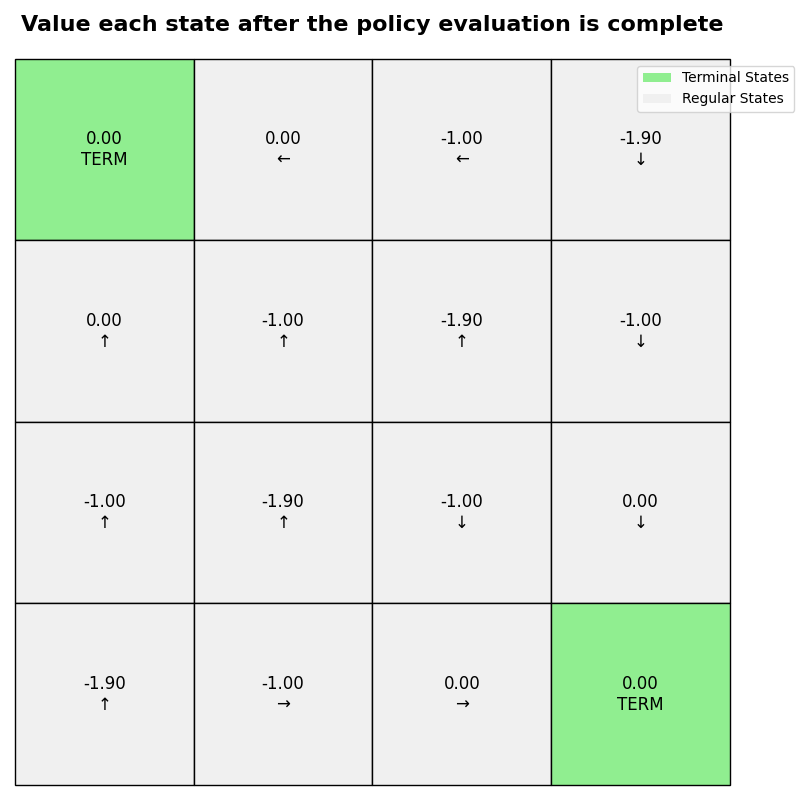
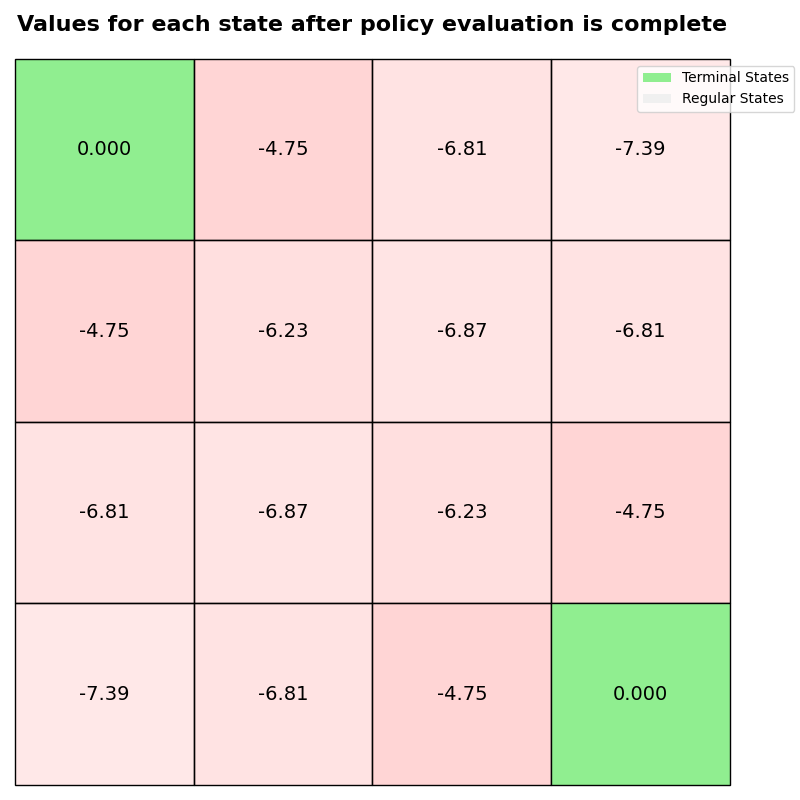
Enhance value function plotting in GridWorld class by adding a descriptive title after policy evaluation. Update binary images for problem evaluations.

diff --git a/assignments/assignment1/assignment1_main.py b/assignments/assignment1/assignment1_main.py
@@ -242,6 +242,8 @@ class GridWorld:
 
             # Plot the value function after policy evaluation
             if config.plotTable:
+                temp_str = f"Values for each state after policy evaluation is complete"
+                self.plotValueFunction(self.currentV, temp_str)
                 VList.append(self.currentV)
             
             #### Policy improvement ####
